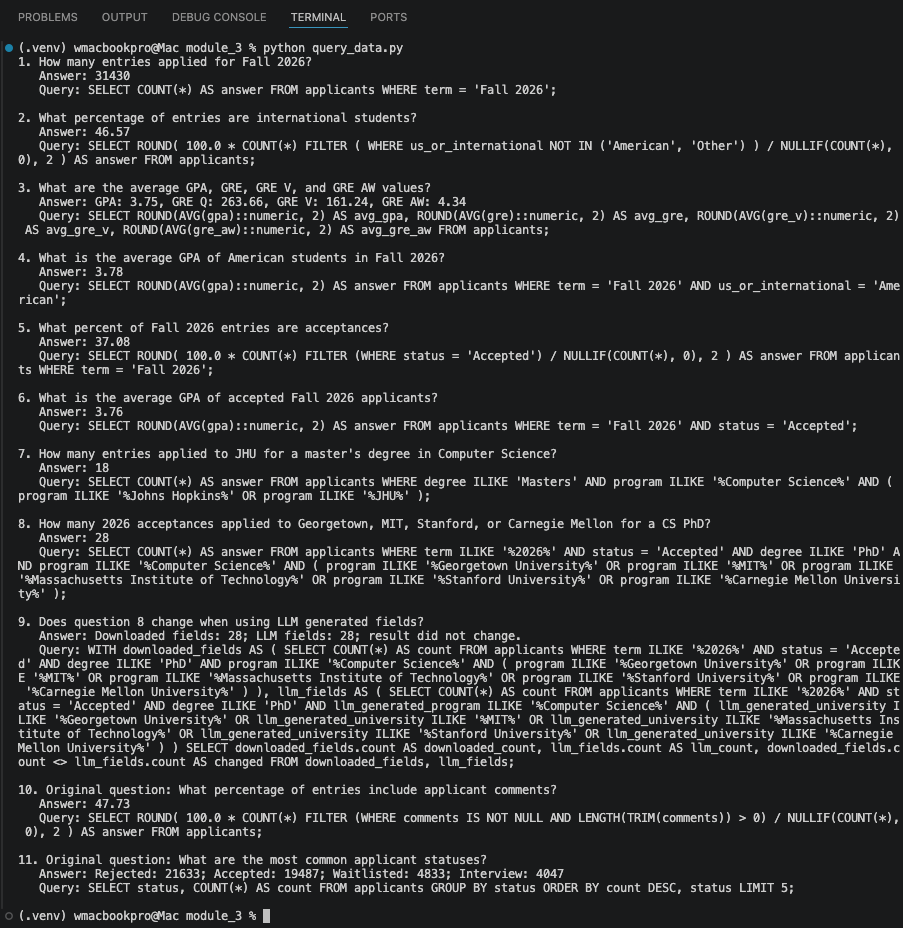
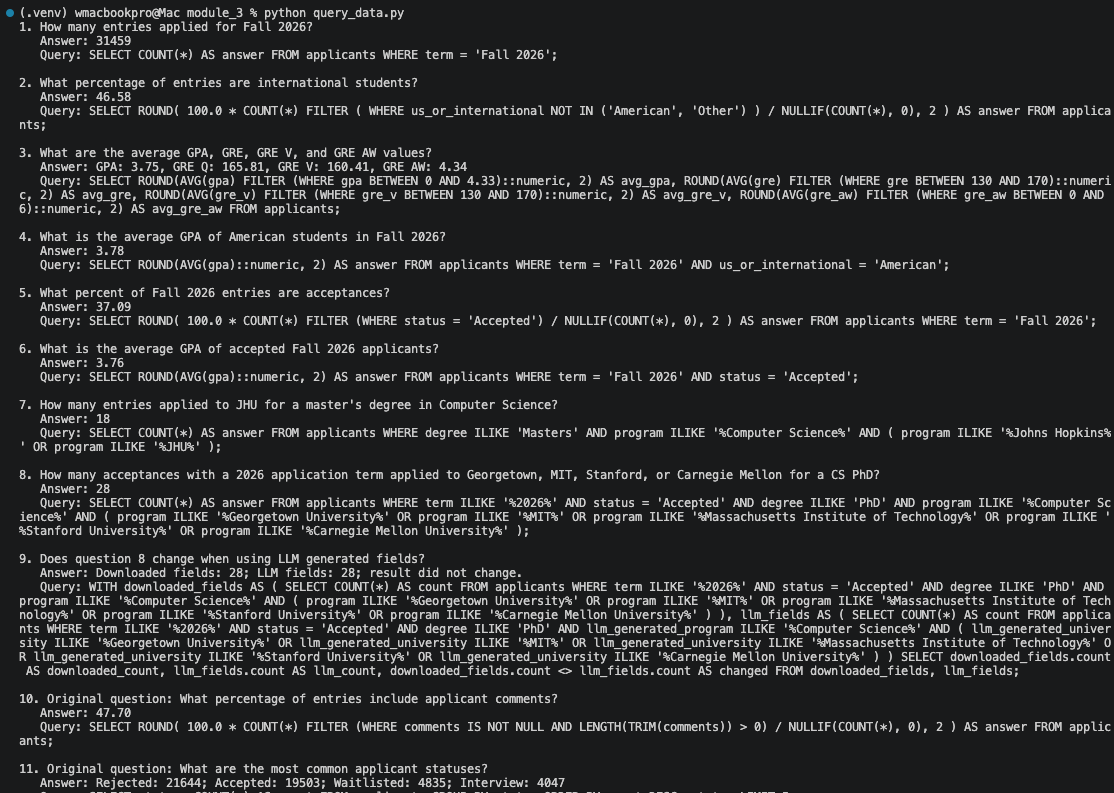
Improve module 3 analysis deliverables

Changed region(s): [[0.0, 0.0, 1.0, 1.0], [0.8682, 0.454, 0.9302, 0.4842]]

diff --git a/module_3/query_data.py b/module_3/query_data.py
@@ -45,13 +45,16 @@ ANALYSIS_QUESTIONS: List[AnalysisQuestion] = [
         "What are the average GPA, GRE, GRE V, and GRE AW values?",
         """
         SELECT
-            ROUND(AVG(gpa)::numeric, 2) AS avg_gpa,
-            ROUND(AVG(gre)::numeric, 2) AS avg_gre,
-            ROUND(AVG(gre_v)::numeric, 2) AS avg_gre_v,
-            ROUND(AVG(gre_aw)::numeric, 2) AS avg_gre_aw
+            ROUND(AVG(gpa) FILTER (WHERE gpa BETWEEN 0 AND 4.33)::numeric, 2) AS avg_gpa,
+            ROUND(AVG(gre) FILTER (WHERE gre BETWEEN 130 AND 170)::numeric, 2) AS avg_gre,
+            ROUND(AVG(gre_v) FILTER (WHERE gre_v BETWEEN 130 AND 170)::numeric, 2) AS avg_gre_v,
+            ROUND(AVG(gre_aw) FILTER (WHERE gre_aw BETWEEN 0 AND 6)::numeric, 2) AS avg_gre_aw
         FROM applicants;
         """,
-        "Uses AVG, which ignores NULL values, so only applicants who provided each metric contribute to that metric.",
+        (
+            "Averages only provided values that fall on the expected reporting scales: "
+            "GPA 0-4.33, GRE Quant and Verbal 130-170, and GRE Analytical Writing 0-6."
+        ),
         value_field="summary",
     ),
     AnalysisQuestion(
@@ -106,7 +109,7 @@ ANALYSIS_QUESTIONS: List[AnalysisQuestion] = [
     ),
     AnalysisQuestion(
         "target_school_phd_cs_acceptances",
-        "How many 2026 acceptances applied to Georgetown, MIT, Stanford, or Carnegie Mellon for a CS PhD?",
+        "How many acceptances with a 2026 application term applied to Georgetown, MIT, Stanford, or Carnegie Mellon for a CS PhD?",
         """
         SELECT COUNT(*) AS answer
         FROM applicants
@@ -122,7 +125,10 @@ ANALYSIS_QUESTIONS: List[AnalysisQuestion] = [
               OR program ILIKE '%Carnegie Mellon University%'
           );
         """,
-        "Uses downloaded fields to count accepted 2026 CS PhD entries at the requested universities.",
+        (
+            "Uses downloaded fields to count accepted CS PhD entries at the requested universities. "
+            "Here, 'from 2026' is interpreted as rows whose application term contains 2026."
+        ),
     ),
     AnalysisQuestion(
         "target_school_phd_cs_acceptances_llm",
@@ -164,7 +170,10 @@ ANALYSIS_QUESTIONS: List[AnalysisQuestion] = [
             downloaded_fields.count <> llm_fields.count AS changed
         FROM downloaded_fields, llm_fields;
         """,
-        "Compares the downloaded-field count from question 8 with the same count using standardized LLM program and university fields.",
+        (
+            "Compares the downloaded-field count from question 8 with the same 2026-term count "
+            "using standardized LLM program and university fields."
+        ),
         value_field="comparison",
     ),
     AnalysisQuestion(

diff --git a/module_3/load_data.py b/module_3/load_data.py
@@ -128,15 +128,27 @@ def normalize_record(record: Dict[str, Any], p_id: int) -> Dict[str, Any]:
     }
 
 
+def next_available_p_id(cur) -> int:
+    cur.execute("SELECT COALESCE(MAX(p_id), 0) + 1 FROM applicants;")
+    return cur.fetchone()[0]
+
+
 def load_applicants(input_path: Path, reset: bool = False) -> int:
     records = load_json(input_path)
-    normalized_records = [normalize_record(record, index + 1) for index, record in enumerate(records)]
 
     with connect() as conn:
         with conn.cursor() as cur:
             cur.execute(CREATE_TABLE_SQL)
             if reset:
                 cur.execute("TRUNCATE applicants;")
+                first_p_id = 1
+            else:
+                first_p_id = next_available_p_id(cur)
+
+            normalized_records = [
+                normalize_record(record, first_p_id + index)
+                for index, record in enumerate(records)
+            ]
             # executemany keeps the load logic simple while still using parameterized SQL.
             cur.executemany(INSERT_SQL, normalized_records)
         conn.commit()

diff --git a/module_3/make_limitations_pdf.py b/module_3/make_limitations_pdf.py
@@ -24,12 +24,14 @@ def build_paragraphs() -> list[str]:
             f"{results['fall_2026_count']} records are Fall 2026 entries, "
             f"{results['fall_2026_acceptance_percent']} percent of Fall 2026 entries are acceptances, "
             f"and {results['original_question_comments']} percent of all rows include comments. "
-            f"The metric averages are {results['metric_averages']}, but the raw GRE field mixes "
-            "different reporting scales, so that unfiltered GRE average should be interpreted with "
-            "extra caution. Similar selection and formatting effects can affect acceptance rates, "
-            "GPA averages, and school-specific counts. The data is still valuable for exploratory "
-            "analysis, but the results describe anonymous self-reported entries, not verified "
-            "admissions outcomes."
+            f"The metric averages are {results['metric_averages']} after filtering to expected "
+            "reporting ranges for GPA, GRE Quant, GRE Verbal, and GRE Analytical Writing. That "
+            "filtering makes the averages more comparable to standard score reporting, but it does "
+            "not solve deeper self-reporting problems because applicants may still omit scores, "
+            "misstate values, or selectively report unusually strong outcomes. Similar selection "
+            "and formatting effects can affect acceptance rates, GPA averages, and school-specific "
+            "counts. The data is still valuable for exploratory analysis, but the results describe "
+            "anonymous self-reported entries, not verified admissions outcomes."
         ),
     ]
 

diff --git a/module_3/make_query_report.py b/module_3/make_query_report.py
@@ -5,7 +5,13 @@ from query_data import run_all_queries
 
 
 def main() -> None:
-    paragraphs = []
+    paragraphs = [
+        (
+            "Interpretation note: for the question asking how many entries are from 2026, "
+            "this report interprets 2026 as the application term/start term containing 2026, "
+            "not the date the Grad Cafe row was added."
+        )
+    ]
     for index, result in enumerate(run_all_queries(), start=1):
         paragraphs.append(f"{index}. {result['question']}")
         paragraphs.append(f"Answer: {result['answer']}")

diff --git a/module_3/README.md b/module_3/README.md
@@ -71,11 +71,20 @@ By default, this loads:
 ../module_2/llm_extend_applicant_data.json
 ```
 
+Use `--reset` for the cleanest full reload. If you load without `--reset`,
+`load_data.py` assigns new `p_id` values after the current database maximum and
+uses each Grad Cafe URL to update existing rows instead of creating duplicates.
+
 ## Run SQL Analysis
 
 ```bash
 python query_data.py
 ```
+
+The metric-average query filters self-reported values to expected reporting
+ranges before averaging: GPA `0-4.33`, GRE Quant and Verbal `130-170`, and GRE
+Analytical Writing `0-6`. This avoids mixing malformed or old-scale values into
+the displayed averages.
 
 To create the PDF with query answers, SQL, and explanations:
 
@@ -117,4 +126,10 @@ python make_limitations_pdf.py
 
 ## Screenshots
 
-After running `query_data.py` and the Flask app, place screenshots of the console output and running webpage in the `screenshots` folder.
+Capture screenshots manually after running `query_data.py` and the Flask app:
+
+- `screenshots/console_query_output.png`: terminal output from `python query_data.py`.
+- `screenshots/webpage_output.pdf`: browser export or screenshot of the running Flask page.
+
+After using `Pull Data`, click `Update Analysis`, rerun `query_data.py`, and
+recapture both screenshot files so the evidence matches the latest database.